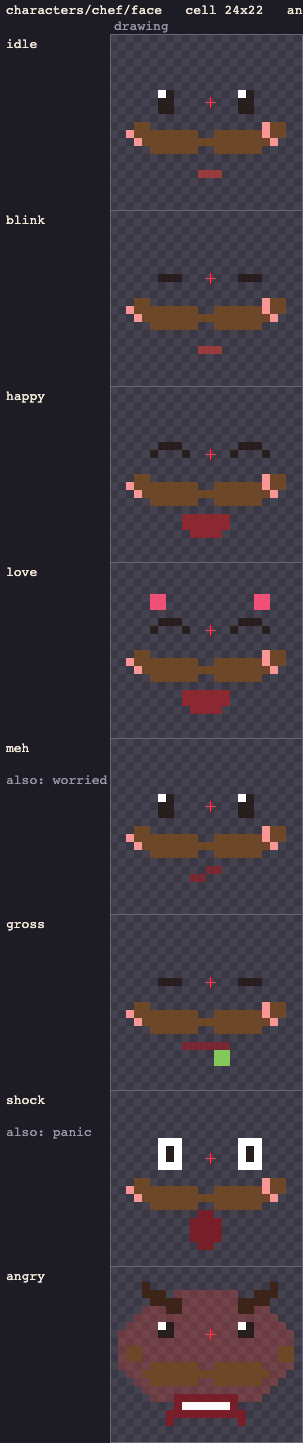
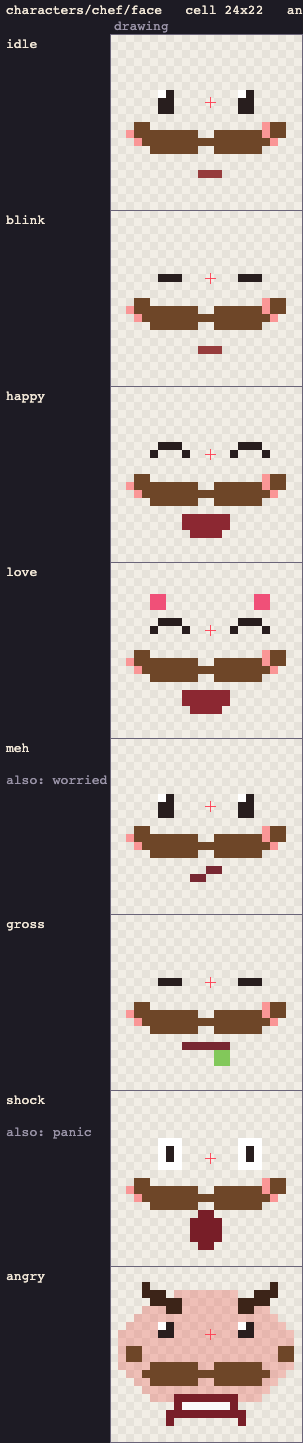
Black faces on the sketches, light background under face sprites in the catalog; simpler artist README with a zip download

diff --git a/js/sprites.js b/js/sprites.js
@@ -151,9 +151,10 @@ const Sprites = {
       also.forEach((a, k) => c.fillText((k ? '' : 'also: ') + a, 6, y + 36 + k * 14));
       for (let f = 0; f < cols; f++) {
         const x = labW + f * cw;
-        // Checkerboard for transparency, dimmed where the row has no frame.
+        // Checkerboard for transparency (light under faces and mouths, which are dark features on their own),
+        // dimmed where the row has no frame.
         for (let yy = 0; yy < ch; yy += 8) for (let xx = 0; xx < cw; xx += 8) {
-          c.fillStyle = f >= st.frames ? '#15141a' : ((xx + yy) / 8) & 1 ? '#3a3844' : '#44424e';
+          c.fillStyle = f >= st.frames ? '#15141a' : d.lightGuide ? (((xx + yy) / 8) & 1 ? '#e6e2da' : '#f2eee6') : ((xx + yy) / 8) & 1 ? '#3a3844' : '#44424e';
           c.fillRect(x + xx, y + yy, Math.min(8, cw - xx), Math.min(8, ch - yy));
         }
         if (f < st.frames) c.drawImage(sheet, f * d.w, r * d.h, d.w, d.h, x, y, cw, ch);
@@ -201,7 +202,7 @@ Sprites.def('chef/body', { path: 'characters/chef/body', w: 48, h: 46, ox: -24, 
 Sprites.def('chef/head', { path: 'characters/chef/head', w: 40, h: 52, ox: -20, oy: -36, static: true,
   notes: 'Head and ears, with no face. He must be wearing a chef hat, and otherwise be dressed in traditional chef attire. The anchor is the center of his face; chef/face is laid over it.',
   states: { idle: {} }, render: (g) => Chef.drawHead(g) });
-Sprites.def('chef/face', { path: 'characters/chef/face', w: 24, h: 22, ox: -12, oy: -8, static: true,
+Sprites.def('chef/face', { path: 'characters/chef/face', w: 24, h: 22, ox: -12, oy: -8, static: true, lightGuide: true,
   notes: 'Eyes, brows, mouth, mustache and blush, drawn over chef/head. Same anchor as the head (the center of his face).',
   states: {
     idle: {}, blink: { note: 'idle with eyes shut, shown for a few frames now and then' }, happy: {}, love: { note: 'after a great taste' },
@@ -246,7 +247,7 @@ Sprites.def('story/dom', { path: 'characters/story/dom', w: 120, h: 130, ox: -60
   notes: 'Papa Dom, the pizza shop owner (a Vin Diesel lookalike): he should be wearing a pizza chef apron and have big muscles showing. Cutscene portrait, displayed at 2x. Everything but his mouth, which is its own sprite (story/dom-mouth).',
   states: { sad: {}, stern: {}, happy: {} },
   render: (g, state) => drawDom(g, 0, { t: 0 }, { mood: state, ft: 0, noMouth: true }) });
-Sprites.def('story/dom-mouth', { path: 'characters/story/dom-mouth', w: 14, h: 8, ox: -7, oy: 66, static: true,
+Sprites.def('story/dom-mouth', { path: 'characters/story/dom-mouth', w: 14, h: 8, ox: -7, oy: 66, static: true, lightGuide: true,
   notes: "Papa Dom's mouth, laid over his face (same anchor as story/dom). One per mood, and open for talking: while he speaks, the game alternates the open mouth with his mood's.",
   states: { sad: {}, stern: {}, happy: {}, talk: { note: 'open, mid-word' } },
   render: (g, state) => drawDomMouth(g, 0, 70, state, state === 'talk') });
@@ -329,21 +330,21 @@ Sprites.def('backgrounds/level-select', { path: 'backgrounds/level-select', w: W
 // redraw: just the right size and place (head, body, hands on the table...). Every pose looks the same; the pose
 // names and notes say what each one is. (The list of drawings asked for is fixed in js/sprite-layout.js.)
 const PLACEHOLDER_SKETCHES = false;
-const SKETCH_FILL = [226, 222, 214], SKETCH_INK = [70, 60, 66];
+const SKETCH_FILL = [226, 222, 214], SKETCH_INK = [70, 60, 66], SKETCH_FACE = [0, 0, 0];   // ink: the border; face: eyes and mouths
 const SKETCH = {
   'chef/body': (g) => { ellipse(g, 0, 92, 21, 13, SKETCH_FILL); rect(g, -21, 92, 42, 26, SKETCH_FILL); },
   'chef/head': (g) => { ellipse(g, 0, 0, 13, 13, SKETCH_FILL); },
-  'chef/face': (g) => { rect(g, -5, -1, 2, 2, SKETCH_INK); rect(g, 4, -1, 2, 2, SKETCH_INK); rect(g, -3, 7, 6, 1, SKETCH_INK); },
+  'chef/face': (g) => { rect(g, -5, -1, 2, 2, SKETCH_FACE); rect(g, 4, -1, 2, 2, SKETCH_FACE); rect(g, -3, 7, 6, 1, SKETCH_FACE); },
   judge: (g) => {
     ellipse(g, 0, 108, 26, 22, SKETCH_FILL); rect(g, -6, 72, 12, 16, SKETCH_FILL); ellipse(g, 0, 60, 16, 16, SKETCH_FILL);
-    rect(g, -6, 58, 2, 2, SKETCH_INK); rect(g, 4, 58, 2, 2, SKETCH_INK);
+    rect(g, -6, 58, 2, 2, SKETCH_FACE); rect(g, 4, 58, 2, 2, SKETCH_FACE);
   },
   'judge-front': (g) => { ellipse(g, -18, 120, 6, 3, SKETCH_FILL); ellipse(g, 18, 120, 6, 3, SKETCH_FILL); },
   'story/dom': (g) => {
     ellipse(g, 0, 110, 34, 22, SKETCH_FILL); rect(g, -10, 68, 20, 24, SKETCH_FILL); ellipse(g, 0, 58, 17, 18, SKETCH_FILL);
-    rect(g, -7, 58, 3, 2, SKETCH_INK); rect(g, 5, 58, 3, 2, SKETCH_INK);
+    rect(g, -7, 58, 3, 2, SKETCH_FACE); rect(g, 5, 58, 3, 2, SKETCH_FACE);
   },
-  'story/dom-mouth': (g, state) => { if (state === 'talk') ellipse(g, 0, 70, 3, 2, SKETCH_INK); else rect(g, -4, 70, 8, 1, SKETCH_INK); },
+  'story/dom-mouth': (g, state) => { if (state === 'talk') ellipse(g, 0, 70, 3, 2, SKETCH_FACE); else rect(g, -4, 70, 8, 1, SKETCH_FACE); },
   'extras/rat': (g) => { ellipse(g, 0, 0, 6, 3, SKETCH_FILL); ellipse(g, 6, -1, 3, 3, SKETCH_FILL); rect(g, -15, 0, 9, 1, SKETCH_INK); },
   'extras/customer': (g) => { rect(g, -4, 182, 8, 14, SKETCH_FILL); rect(g, -3, 196, 2, 4, SKETCH_FILL); rect(g, 1, 196, 2, 4, SKETCH_FILL); ellipse(g, 0, 177, 4, 4, SKETCH_FILL); },
 };

diff --git a/art/index.html b/art/index.html
@@ -16,7 +16,7 @@
   a { color: var(--accent); }
 </style></head><body><main>
 <h1>Soup Pot: art templates</h1>
-<p>Everything to redraw. You'll draw in the ready-made Aseprite files (<code>art/aseprite/</code>); this page shows what each piece is, where it sits and which poses it needs. The full instructions are in the <a href="https://github.com/Gamemackerel/soupgame/blob/main/art/README.md">art README</a>.</p>
+<p>Everything to redraw. You'll draw in the ready-made Aseprite files: <a href="soup-pot-aseprite.zip"><b>download them here (zip)</b></a>. This page shows what each piece is, where it sits and which poses it needs. The full instructions are in the <a href="https://github.com/Gamemackerel/soupgame/blob/main/art/README.md">art README</a>.</p>
 <p><b>Only the first frame of each pose is required.</b> Extra frames are optional animation: left empty, the game holds the first frame. Poses marked "also used for" share one drawing, so it's drawn once.</p>
 <nav><a href="#characters">characters</a><a href="#ingredients">ingredients</a><a href="#backgrounds">backgrounds</a></nav>
 <h2 id="characters">Characters <small>70 drawings + 86 optional animation frames</small></h2>

diff --git a/tools/export-art.js b/tools/export-art.js
@@ -111,7 +111,7 @@ function catalog(metas) {
   a { color: var(--accent); }
 </style></head><body><main>
 <h1>Soup Pot: art templates</h1>
-<p>Everything to redraw. You'll draw in the ready-made Aseprite files (<code>art/aseprite/</code>); this page shows what each piece is, where it sits and which poses it needs. The full instructions are in the <a href="https://github.com/Gamemackerel/soupgame/blob/main/art/README.md">art README</a>.</p>
+<p>Everything to redraw. You'll draw in the ready-made Aseprite files: <a href="soup-pot-aseprite.zip"><b>download them here (zip)</b></a>. This page shows what each piece is, where it sits and which poses it needs. The full instructions are in the <a href="https://github.com/Gamemackerel/soupgame/blob/main/art/README.md">art README</a>.</p>
 <p><b>Only the first frame of each pose is required.</b> Extra frames are optional animation: left empty, the game holds the first frame. Poses marked "also used for" share one drawing, so it's drawn once.</p>
 <nav>${order.map((g) => `<a href="#${g}">${g}</a>`).join('')}</nav>
 ${sections}

diff --git a/art/README.md b/art/README.md
@@ -1,95 +1,46 @@
 # Soup Pot art
 
-Everything an artist redraws is in three groups:
+**Download the files:** https://gamemackerel.github.io/soupgame/art-branch/soup-pot-aseprite.zip
+**See every piece:** https://gamemackerel.github.io/soupgame/art-branch/
 
-| Group | What | Size |
-|---|---|---|
-| Characters | The chef, the six judges, Papa Dom, the rat, the queue of customers | 12×29 up to 120×130 |
-| Ingredients | The 30 pantry items (plus the cracked egg), and the 10 finished dishes on the level select | 16×16, dishes 24×16 |
-| Backgrounds | Kitchen, pizza shop, studio kitchen, judging stage and its table, the shop front by night and by day, the level select wall | 320×240 |
+You'll redraw the game's characters, ingredients and backgrounds in **Aseprite** (aseprite.org or Steam, about $20). The pot, the chef's arms, flames, food in the pot, buttons and text are drawn by the game, so you don't draw those.
 
-Everything else (the pot and lid, the chef's arms, flames, steam, food in the pot, buttons, tool icons, text) is drawn by the game and isn't part of this.
+## How it works
 
-To see every sprite with all its poses and frames, open the catalog: https://gamemackerel.github.io/soupgame/art-branch/
+1. Unzip the download and open a file, e.g. `characters/chef.aseprite`.
+2. Each file is one canvas. **Layer groups** (`body`, `head`, `face`…) are the pieces the game needs. Draw inside a group's `draw here` layer, and add as many layers inside the group as you like.
+3. The **tags** (colored bars above the timeline) are the poses: `happy`, `upset`, `tasting`… Click one to see it.
+4. Layers starting with `_` are reference only and never used by the game:
+   - `_about …` describes the piece and what it must show (the chef's hat, Papa Dom's apron…).
+   - `_old art` is a faint placeholder to show size and position.
+   - `_guides` are marks like the pot rim or the table line.
 
----
+**You only have to draw the first frame of each pose.** Extra frames are optional animation. Leave them empty and the game holds the first frame.
 
-## Start here (for the artist)
+Some frames are **linked** (joined in the timeline): one drawing used in several poses. Draw it once and it shows up everywhere it's linked.
 
-You'll draw in **Aseprite**, a pixel-art editor. Everything is set up in ready-made Aseprite files, so you never have to think about sprite sheets or sizes.
+## Rules
 
-### 1. Get set up
+- Don't resize the canvas, and don't rename groups or tags.
+- Keep each piece where the old art is.
+- Transparent background, hard pixels (use the Pencil). Soft transparency is fine for glows.
+- Don't draw motion through space. Bobbing, hopping and shaking are done by the game.
+- Hidden layers aren't used, so hide anything you want to keep but not ship.
 
-1. **Install Aseprite** from aseprite.org or Steam (about $20).
-2. **Get the files.** The art lives on the **`art` branch** of the game's GitHub repository.
-   - **Recommended:** install **GitHub Desktop**, clone the repository, and switch to the `art` branch. Sending your work back is then two clicks (step 5).
-   - **Or:** download the `art` branch as a ZIP from GitHub, and send the `.aseprite` files back however you like.
-3. Your files are in **`art/aseprite/`**:
+## Suggested order
 
-   | File | What's in it |
-   |---|---|
-   | `ingredients.aseprite` | All 31 pantry items, one per frame. **A good place to start.** |
-   | `dishes.aseprite` | The 10 finished dishes, one per frame |
-   | `characters/chef.aseprite` | The chef: body, head, and his 10 faces |
-   | `characters/judges/*.aseprite` | One file per judge: every mood, and what rests on the table in front of them |
-   | `characters/dom.aseprite` | Papa Dom, for the cutscenes |
-   | `characters/rat.aseprite`, `characters/customers.aseprite` | The extras outside the shop |
-   | `backgrounds/*.aseprite` | One per background (the judging stage holds both the stage and its table) |
+Ingredients → dishes → the chef → judges → Papa Dom and extras → backgrounds.
 
-### 2. Open a file and look around
+## Sending it back
 
-Open `characters/chef.aseprite`. You'll see the whole chef on one canvas.
-
-- **Layers panel (left of the timeline):** one **group** per piece the game needs: `body`, `head`, `face`. Each has an empty layer called **`draw here`**.
-- **Reference layers**, whose names start with `_`, are locked and never exported:
-  - **`_about …`**: what each piece is and what it must show, the same description as on the catalog (the chef's head must wear a chef hat; Papa Dom wears a pizza chef apron with big muscles showing). Hover the layer or open its properties to read it all.
-  - `_old art (reference)`: the current placeholder art, faint, to trace or ignore as you like.
-  - `_guides`: helper marks. In the chef file, the **blue line** is the pot rim (everything below it is hidden behind the pot) and the **red dots** are his shoulders (his arms are drawn by the game from there).
-- **Tags (the colored bars above the timeline)** are the moods, poses and animations: `idle`, `happy`, `angry`… Click one to see its frames.
-
-### 3. Draw
-
-**You only have to draw the first frame of each pose.** If a tag has 4 frames, the other 3 are optional animation: leave them empty and the game holds the first frame. Get every character looking right first; animate later if there's time.
-
-Across all the characters that's **70 drawings** in total (the chef is 10: his body, his head and 8 faces). The extra animation frames are a bonus.
-
-- Draw the **whole character** at once, each piece inside its own group. Use as many layers inside a group as you like, for line art, color, shading and so on. Everything visible inside a group becomes that piece in the game.
-- **Nothing is drawn twice.** Where poses share a drawing, it lives in the first pose that uses it, and every other place it appears is a **linked cel** pointing back to it. Aseprite shows linked cels joined in the timeline. Examples: the chef's body across all his faces; a judge's paws on the table, which are the same in most moods; Papa Dom, who is one drawing per mood plus a separate small `mouth` (one per mood, and one open for talking, which the game flaps). Draw it in the first pose and it appears everywhere else.
-- Some poses look the same as another one already, such as the chef's *worried* face and his *meh* face. Those get no tag of their own: the game uses the same drawing for both.
-- **Animations:** turn on onion skin (the button left of the frame numbers) to see the frames around the one you're drawing. Loops should loop smoothly.
-- **Don't draw movement through space.** Bobbing, hopping, shaking and sliding are done by the game. Draw the pose, in place.
-
-### 4. A few rules
-
-1. **Don't resize the canvas, and don't rename the groups or tags.** That's how the game knows what's what.
-2. **Keep the pieces inside their area.** The old art shows where each piece sits. Anything far outside it gets cut off.
-3. **Transparent background, hard pixels.** Use the Pencil, not anti-aliased brushes. Soft transparency is fine for glows.
-4. **Hidden layers and reference layers aren't exported,** so hide anything you want to keep but not use.
-5. Any color mode is fine (RGB or Indexed). A 32-color starter palette (DB32) is loaded; swap in your own if you like.
-
-### 5. Save and send it back
-
-Just **save** (Ctrl/Cmd+S) in Aseprite; no exporting needed.
-
-- With GitHub Desktop: write a short note ("chef body and head"), click **Commit to art**, then **Push origin**.
-- Without it: send the `.aseprite` files you changed.
-
-Unfinished pieces are fine. A piece only goes into the game once **the first frame of every one of its poses** is drawn, so half-done work never shows up blank.
-
-### Suggested order
-
-1. **`ingredients.aseprite`**: small single frames, a good way to settle the style.
-2. **`dishes.aseprite`**.
-3. **The chef** (he's on screen the whole time).
-4. **The judges**, then **Papa Dom** and the extras.
-5. **Backgrounds** last, once the characters set the look.
+Just save in Aseprite, and send back the `.aseprite` files you changed (or, if you use GitHub Desktop, commit and push to the `art` branch). Unfinished work is fine: a piece only goes into the game once the first frame of every pose is drawn.
 
 ---
 
 ## For the developer
 
-- **Bring finished art into the game:** `node tools/art-aseprite.js export`. It splits every `art/aseprite` file into the game's sprite sheets in `art/sprites/`, then registers and checks them (`tools/art-index.js`). For anything it holds back, it says why (an unfinished pose, a missing group, a resized canvas).
-- **Recreate the Aseprite files:** `node tools/art-aseprite.js make`. It never overwrites an existing file; `--force` replaces them, which loses the drawing.
-- Sprites are defined in `js/sprites.js`: cell size, anchor, states, and the code drawing that is both the fallback and the template. After changing a drawing, adding a sprite, or adding a state, re-run `node tools/export-art.js` (needs Playwright) to rewrite `art/templates/` and the catalog. Then remake the Aseprite file for that character.
-- `art/templates/<group>/<name>.png` / `.guide.png` / `.json` are the raw per-sprite sheets: one row per state, one column per frame, every cell the same size, with the anchor and the frame timing. Finished art lands as the same layout in `art/sprites/`, and the game uses any sheet listed in `art/sprites/index.json`, falling back to the code drawing for the rest.
-- A state whose frames all come out identical is collapsed to one frame, so nobody draws the same frame four times.
+- `node tools/art-aseprite.js export` brings finished art in. It splits the `art/aseprite` files into sprite sheets in `art/sprites/`, checks them, and lists anything held back and why.
+- `node tools/art-aseprite.js make [--force]` recreates the Aseprite files. It never overwrites one unless you pass `--force`, which loses the drawing.
+- `node tools/export-art.js` regenerates `art/templates/` and the catalog (needs Playwright). `--relayout` rewrites `js/sprite-layout.js`, the list of drawings; only run it on `main`.
+- `tools/publish-art-branch.sh`, run on `main`, publishes the art branch's catalog and the zip at `/soupgame/art-branch/`. Commit and push afterwards.
+- Sprites are defined in `js/sprites.js`. The game uses any sheet listed in `art/sprites/index.json` and the code drawing for the rest.
